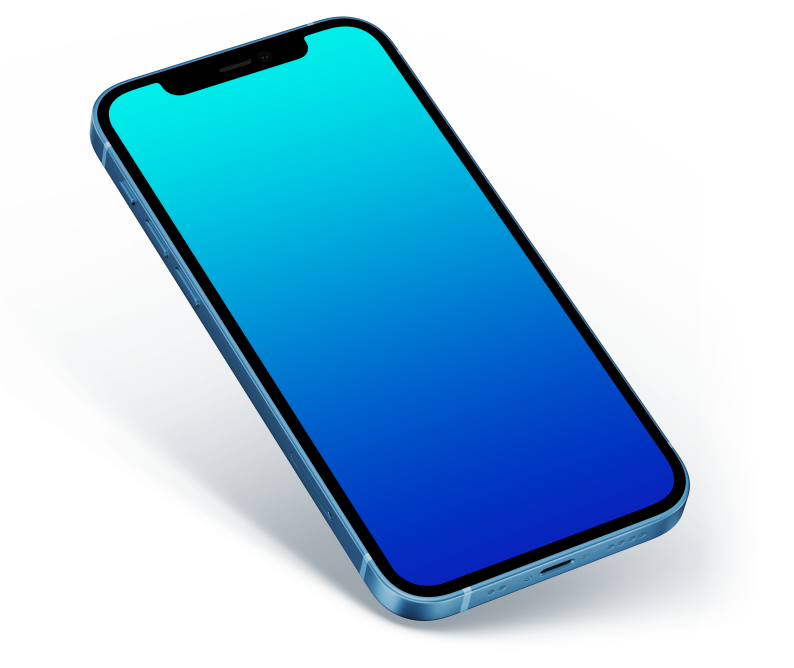
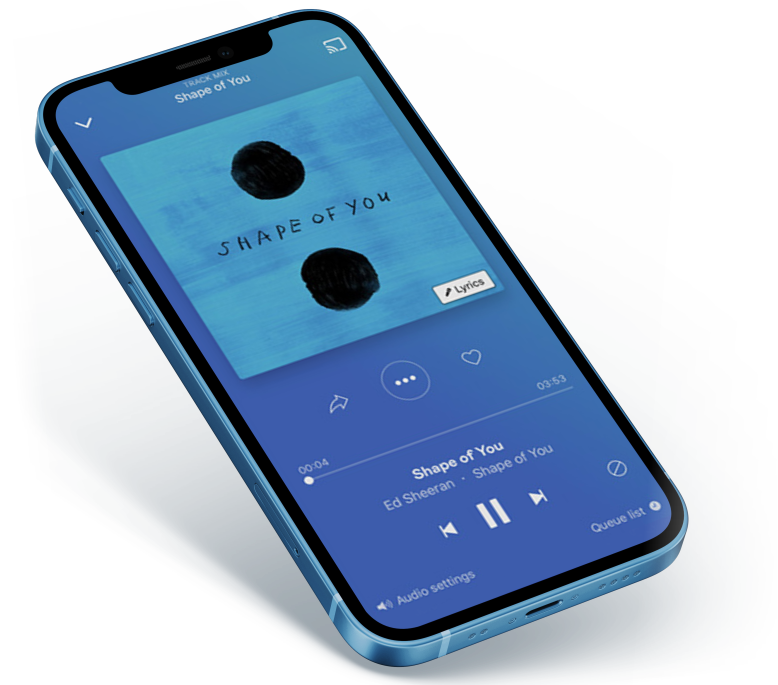
Enviando novas imagens e ajustando section

diff --git a/css/styles.css b/css/styles.css
@@ -32,6 +32,10 @@ body{
     font-family: 'Roboto', sans-serif;
 }
 
+section{
+    width: 100%;
+}
+
 /*===========================AJUSTES PROJETO===========================*/
 
 header{
